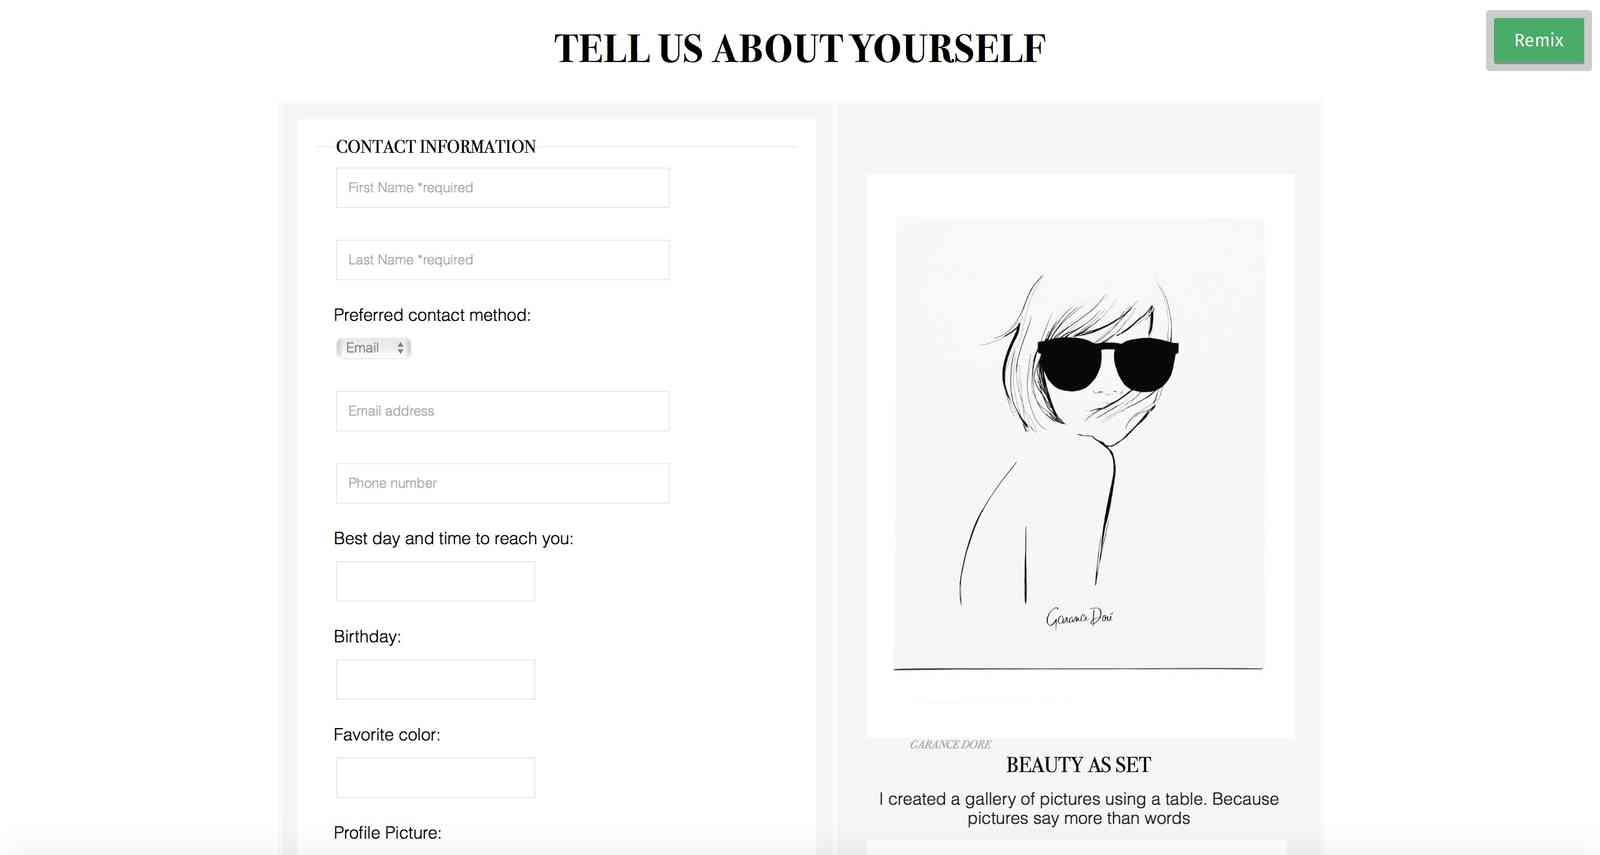
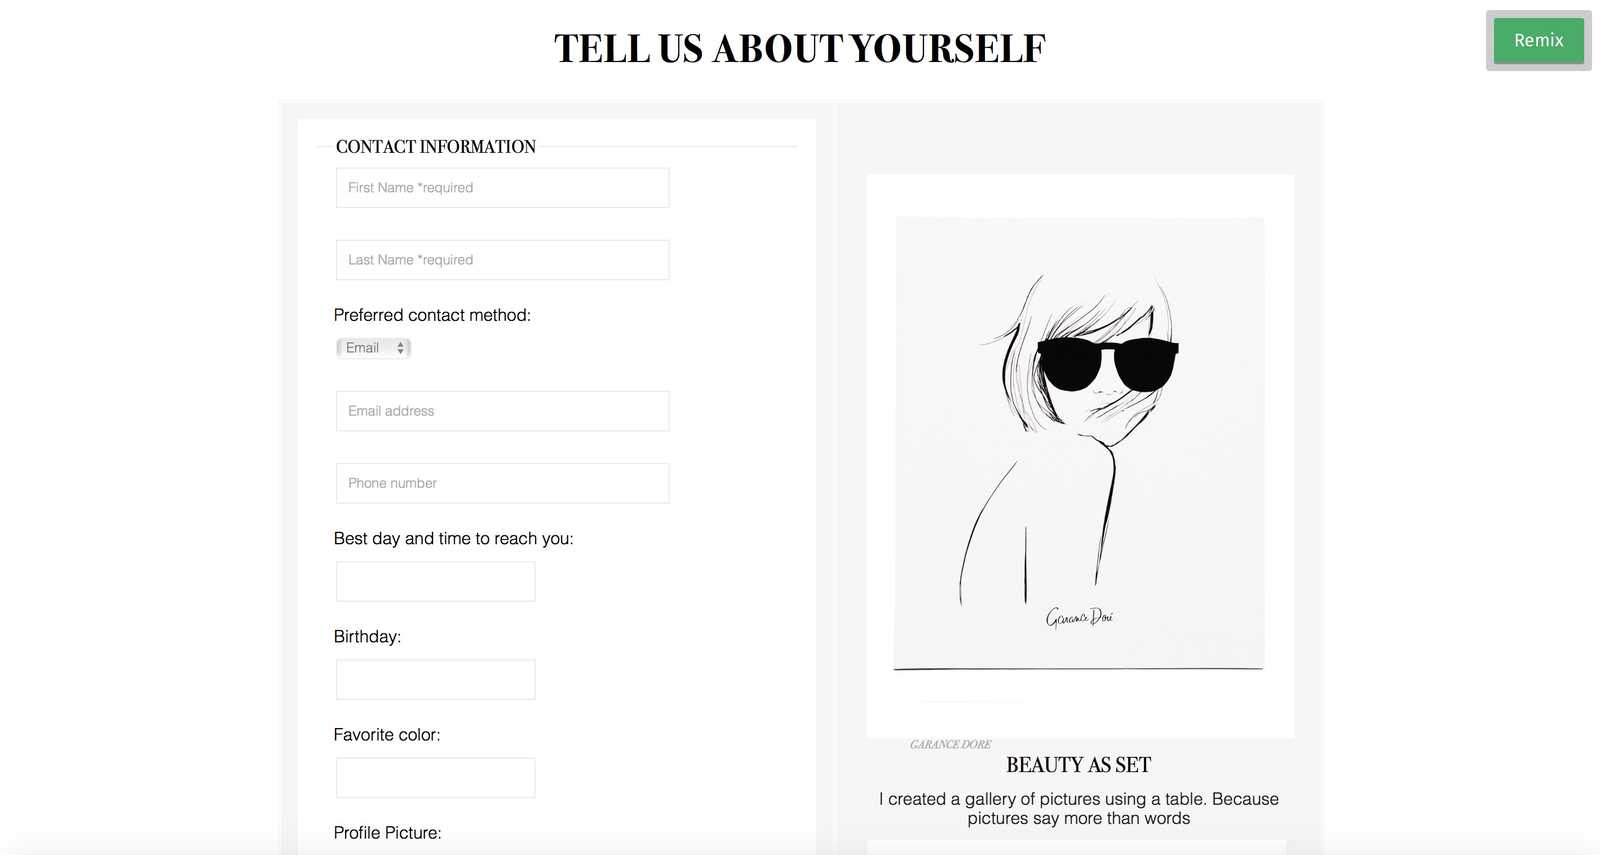
imagemin added

diff --git a/Gruntfile.js b/Gruntfile.js
@@ -20,7 +20,7 @@ var mozjpeg = require('imagemin-mozjpeg');
           sizes: [{
             width:1600,
             suffix:'_large_2x',
-            quality:30,
+            quality:50,
 
             // width:800,
             // suffix:'_large_1x', ---> Use when you need this size -- it is one si
@@ -133,6 +133,6 @@ var mozjpeg = require('imagemin-mozjpeg');
    grunt.loadNpmTasks('grunt-contrib-clean'); //COMMENT --> this is out because we can only run 1 file at the time to get 1x pics. also because we dont want to
    grunt.loadNpmTasks('grunt-contrib-copy');  //            delete, make dir, copy AGAIN that is why the tasks are out. 'imagemin:dynamic', 'imagemin:dynamic',
    grunt.loadNpmTasks('grunt-mkdir');
-   grunt.registerTask('default', ['clean', 'mkdir', 'copy', 'responsive_images:dev1', 'responsive_images:dev2', 'imagemagick-convert:dev']);
+   grunt.registerTask('default', ['clean', 'mkdir', 'copy', 'responsive_images:dev1', 'responsive_images:dev2', 'imagemin:dynamic','imagemagick-convert:dev']);
   //grunt.registerTask('default', ['responsive_images:dev1', 'responsive_images:dev2']); // use it whe you want to add pictures to the dir
 };

diff --git a/index.html b/index.html
@@ -11,7 +11,7 @@
   <srcipt type="text/javasrcipt " src="bootstrap/js/jquery-3.1.1.min.js "></srcipt>
   <srcipt type="text/javasrcipt " src="bootstrap/js/bootstrap.min.js "></srcipt>
   <link rel="stylesheet " href="bootstrap/css/bootstrap.css ">
-  <link rel="stylesheet " href="style.css">
+  <link rel="stylesheet " href="style.css" async>
 </head>
 
 <body>
